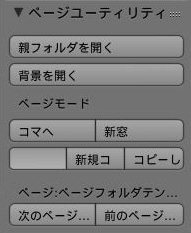
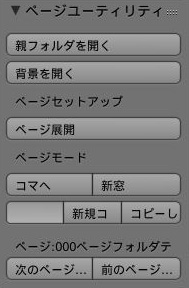
ページ展開

diff --git a/documents/pageutils.md b/documents/pageutils.md
@@ -22,24 +22,50 @@
     3Dページ作業用テンプレ
         models:リンクで使用するモデルを入れると便利
         pages:この中で各ページの作業をする
-            ページフォルダテンプレ
+            000ページフォルダテンプレ
                 render:ここにレンダ画像をいれるとよい
                 background.png
                 page.blend
 
-"ページフォルダテンプレ"をコピーし、該当ページ名にリネームします。  
-"background.png"を各ページの画像で差し替えます。
-
-    例：
-        pages
-            001
-                render
+"pages"フォルダに、Clipstudio Paint等から書き出した各ページの画像を配置します。
+    
+    例：  
+    第10話3D作業
+        models/
+        pages/
+            なんとか伝第10話_001.png
+            なんとか伝第10話_002.png
+            なんとか伝第10話_003.png
+            なんとか伝第10話_004_005.png
+            なんとか伝第10話_006.png
+            なんとか伝第10話_007.png
+            000ページフォルダテンプレ/
+                render/
                 background.png
                 page.blend
-            002
-            003
-            ...
 
+"000ページフォルダテンプレ"内の"page.blend"を起動して、"ページ展開"をクリックします。自動的にページフォルダが展開されて、作業準備が完了します。
+
+    例：  
+    第10話3D作業/
+        models/
+        pages/
+            なんとか伝第10話_001.png
+            なんとか伝第10話_002.png
+            なんとか伝第10話_003.png
+            なんとか伝第10話_004_005.png
+            なんとか伝第10話_006.png
+            なんとか伝第10話_007.png
+            000ページフォルダテンプレ/
+            001/
+            002/
+            003/
+            004_005/
+            006/
+            007/
+    ※各フォルダの内容は省略。
+
+### 各ページ作業
 使いたいページの"page.blend"を起動します。
 
 ### ページモード
@@ -52,6 +78,9 @@
 
 * 背景を開く  
 このフォルダ内のbackground.pngを開く。（Windowsのみ）
+
+* ページ展開  
+現在開いているpage.blendのフォルダをテンプレとして、親フォルダ内にある画像を使って自動的にページフォルダを展開します。既存のフォルダは無視されます。pngが推奨です。png以外でも展開できますが、各フォルダのbackground.pngとしてコピーされません。
 
 * コマへ  
 3Dビューで選択しているコマに移動する。
